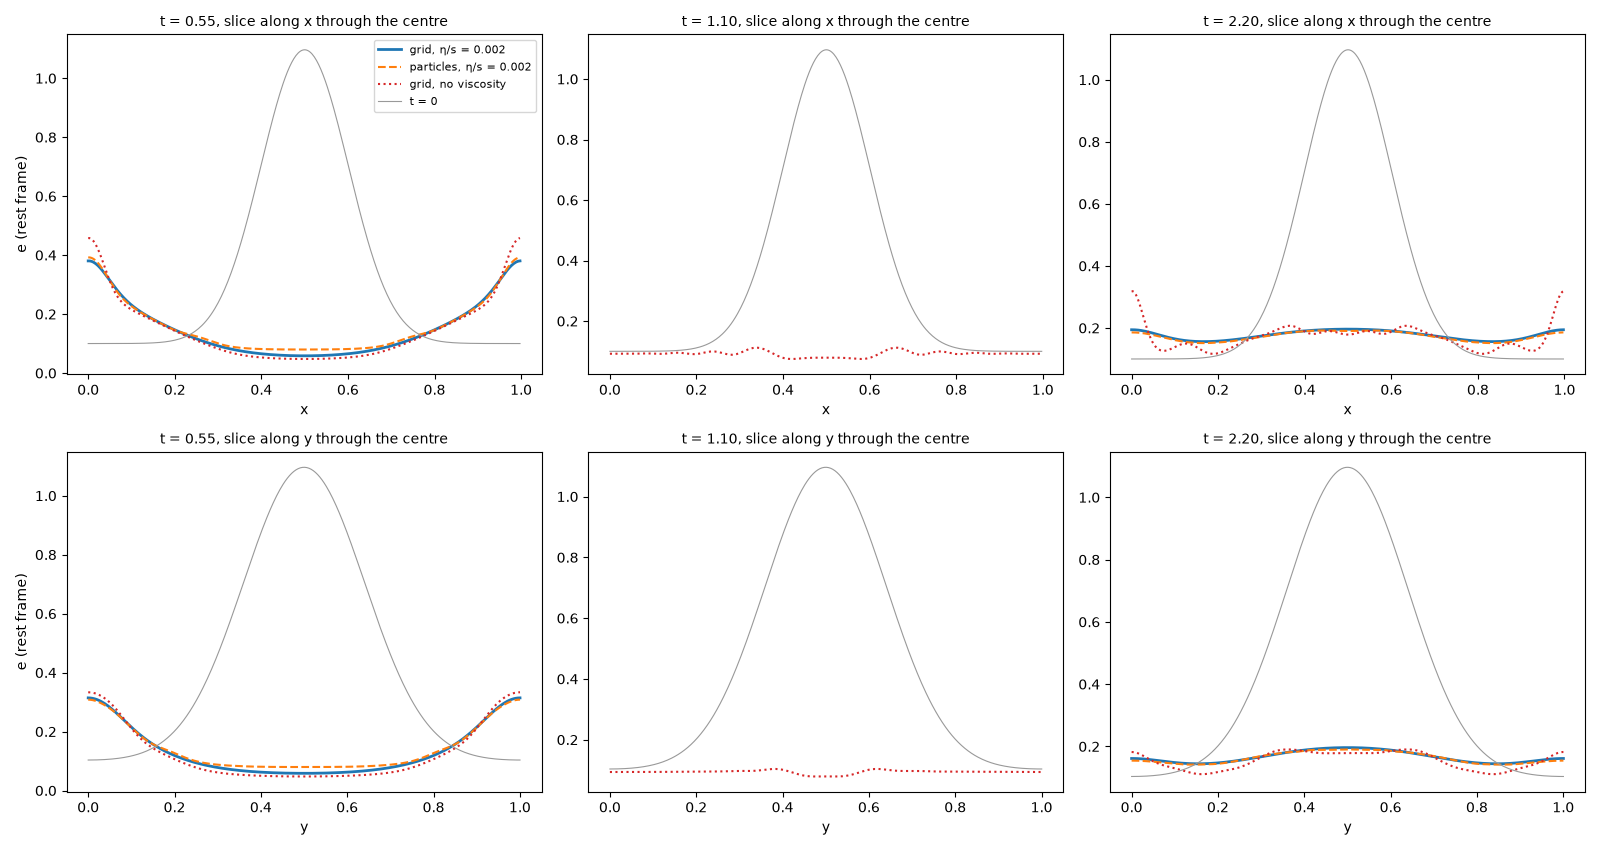
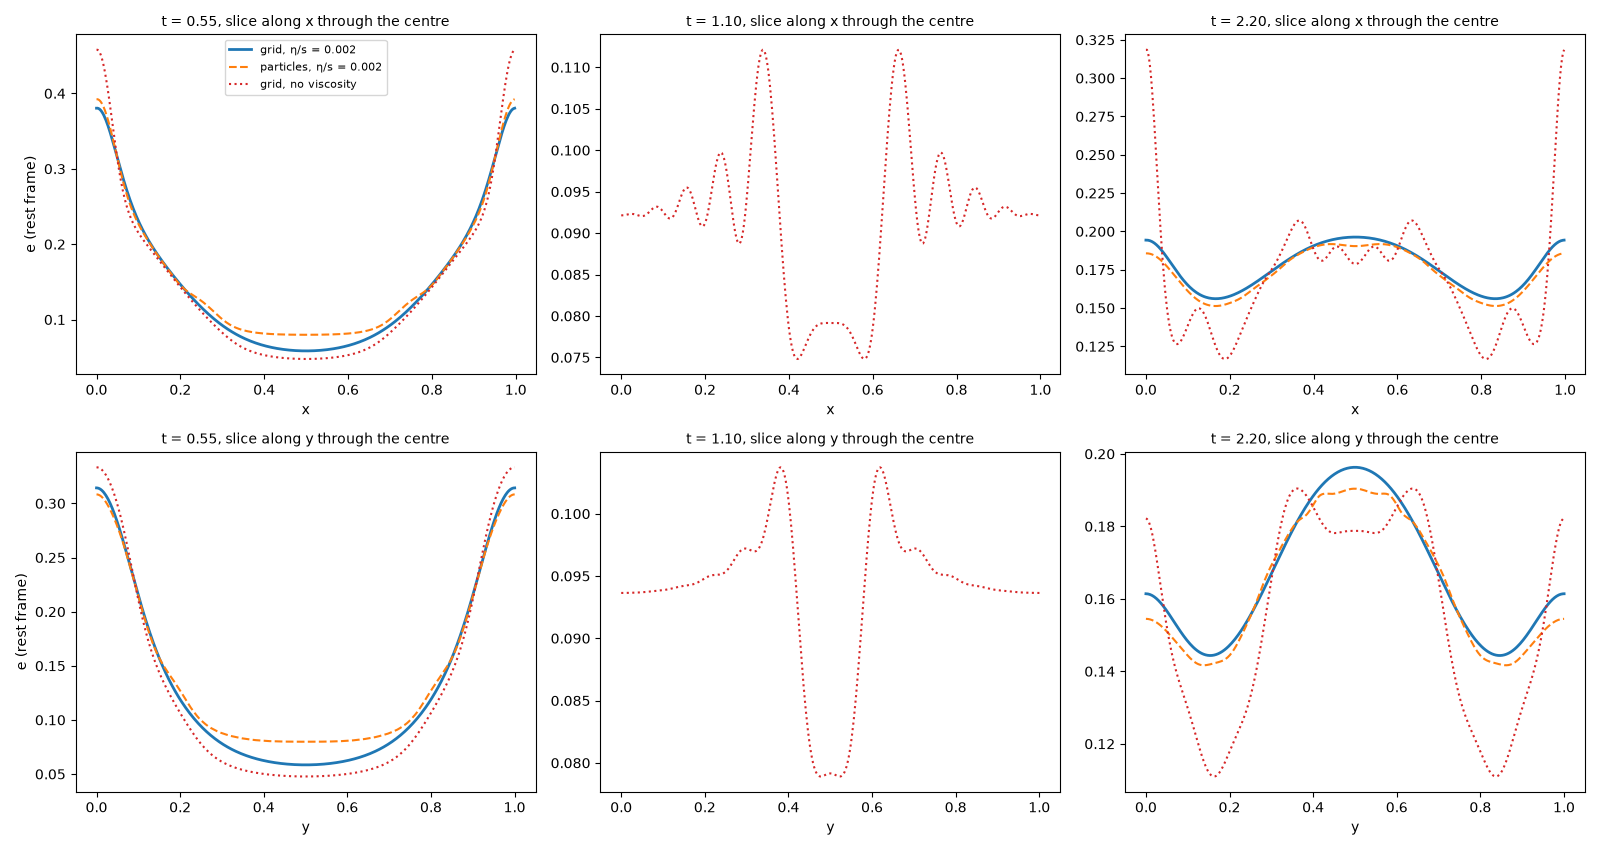
gridstep.tex: Gaussian slices without the t = 0 curve (the evolved profiles were unreadable); text on the grid–particle difference

diff --git a/docs/gridstep.tex b/docs/gridstep.tex
@@ -421,8 +421,10 @@ grid, no viscosity & 424 & $-2.2\times10^{-4}$ & $+8.6\times10^{-3}$ & $+8.6\tim
 \hline
 \end{tabular}
 \end{center}
-With viscosity the grid and the particles agree: the profiles lie on each other and the entropy
-grows alike.  Without viscosity the grid step is stable to the end, with no failure of the
+With viscosity the grid and the particles agree to a few percent, and the entropy grows alike.
+The largest difference is in the rarefied centre at $t=0.55$, $e=0.06$ (grid) against $0.08$
+(particles), where the particles have spread apart and resolve the flow less well; by $t=2.2$ the
+profiles differ by $\lesssim5\%$.  Without viscosity the grid step is stable to the end, with no failure of the
 equation of state, but the shortest waves are not damped and ripples at the scale of a few $h$
 grow where the reflected waves meet (\Fig{fig:ggmap}, third panel); the return then makes
 entropy, $0.9\%$, the numerical dissipation of a nonlinear flow.  (The $t=1.1$ profiles of the two
@@ -478,7 +480,8 @@ For the particle shear at rest the fit is to an oscillation, not a decay.}
 \includegraphics[width=\textwidth]{figs/grid_gaussian_slices.png}
 \caption{Gaussian pulse: the rest-frame energy density along $x$ (top) and $y$ (bottom) through the
 centre at $t=0.55$, $1.1$, $2.2$; grid with $\eta/s=0.002$ (blue), particles with $\eta/s=0.002$ (orange),
-grid without viscosity (red); grey: $t=0$.}
+grid without viscosity (red).  At $t=0$ the pulse is $0.1+e^{-x^2/2\sigma_x^2-y^2/2\sigma_y^2}$ (peak $1.1$).  The
+$t=1.1$ profiles of the two viscous runs are missing.}
 \label{fig:ggslice}
 \end{figure}
 \begin{figure}[t]
